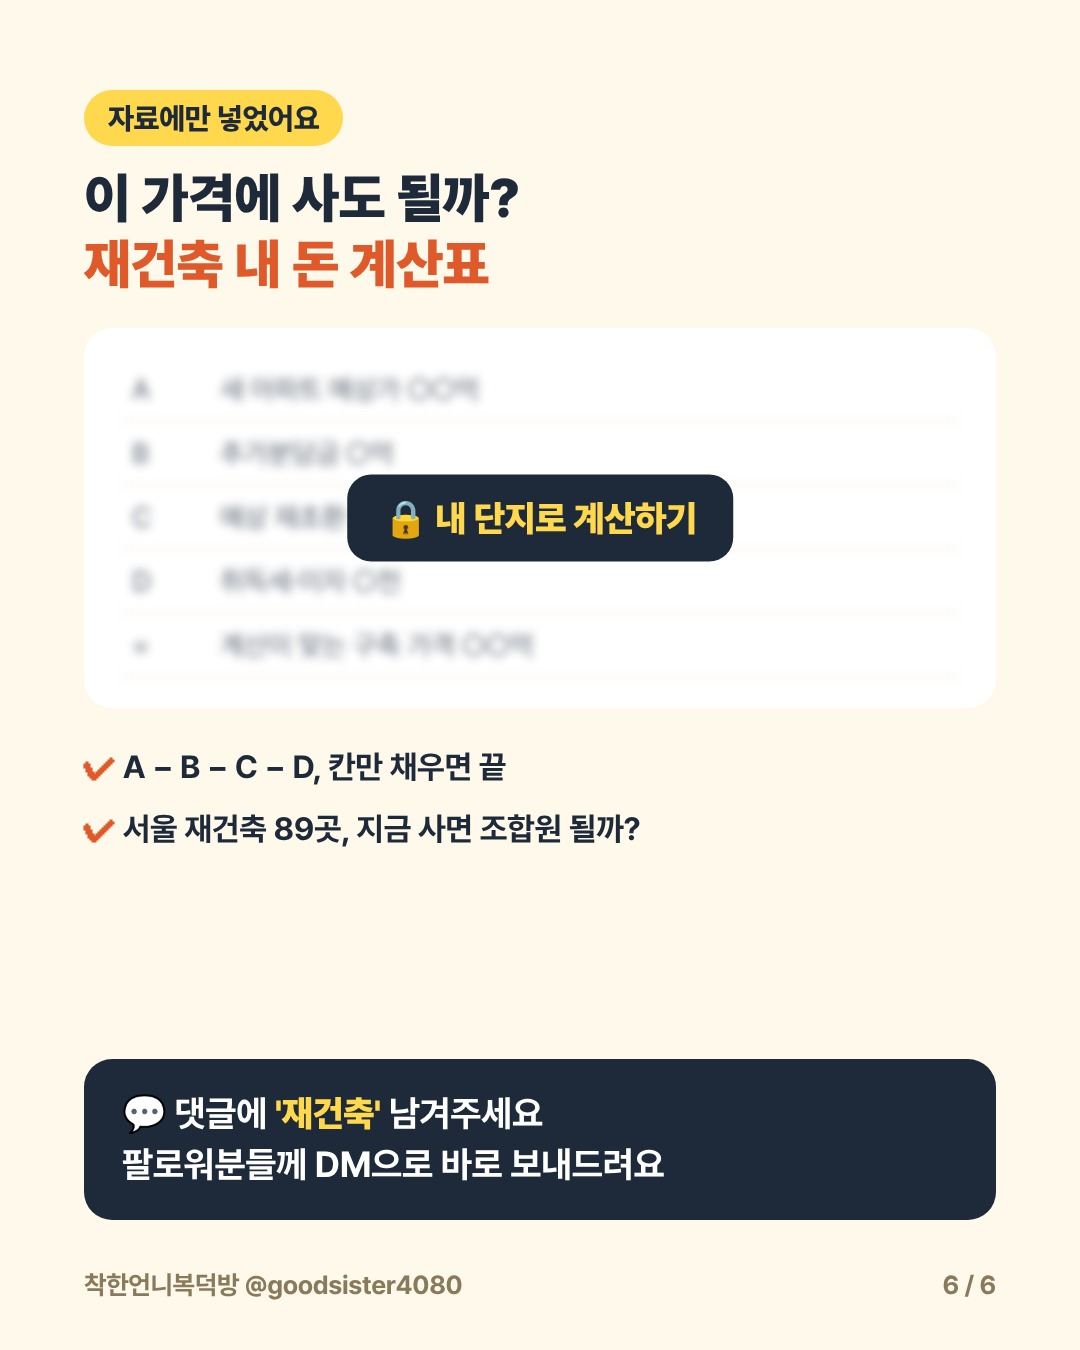
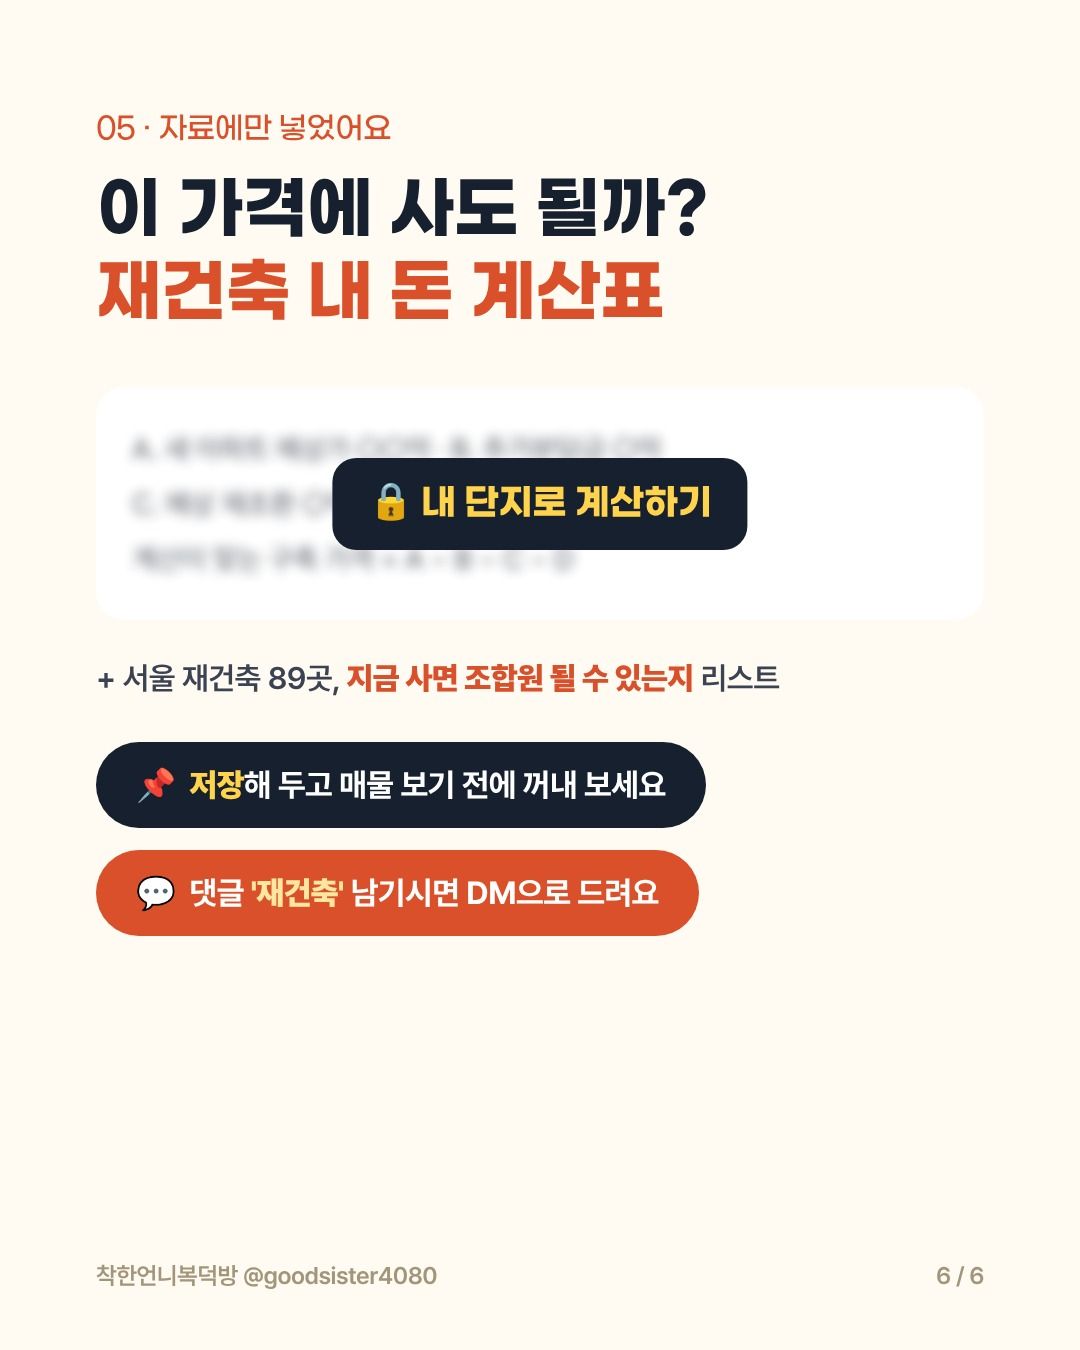
재초환 cards: balance-day style cover with chart-style inner slides and share prompt
Claude-Session: https://claude.ai/code/session_01TVq9M4GpnT2XRseWGn9WC1

diff --git a/index.html b/index.html
@@ -105,7 +105,7 @@ footer{margin-top:48px;color:var(--tx3);font-size:12px}
   <div class="cards">
     <div class="card"><h3>🏗 카드뉴스 · 재초환 · <code>재건축</code> · 승인 대기</h3>
       <p><b>집을 안 팔아도 나오는 돈, 재초환 (6장)</b></p>
-      <p><img src="instagram/cards/2026-11-15-jaechohwan/card-1115-1.png?v=2" style="width:100%;border-radius:10px;margin-top:8px"></p>
+      <p><img src="instagram/cards/2026-11-15-jaechohwan/card-1115-1.png?v=3" style="width:100%;border-radius:10px;margin-top:8px"></p>
       <p style="margin-top:6px"><a href="instagram/cards/kit.html"><b>업로드 키트</b></a> · <a href="https://www.notion.so/416f7921674681df9d3fc085f8da0261">노션 자료</a></p></div>
     <div class="card"><h3>🎬 11/17(화) 릴스 · <code>갈아타기</code> · 대본 완료</h3>
       <p><b>같은 단지, 한 집만 안 팔리는 이유 (집 파는 하수 vs 고수)</b></p>

diff --git a/instagram/cards/kit.html b/instagram/cards/kit.html
@@ -34,6 +34,8 @@ DM으로 드려요.
 (팔로워분들께만 보내드려요)
 
 📌 저장해 두고 재건축 매물 볼 때 꺼내 보세요.
+📤 재건축 단지에 오래 사신
+부모님께도 공유해 주세요.
 
 ※ 기사로 확인된 예정액이며
 확정 금액이 아니에요.

diff --git a/instagram/cards/2026-11-15-jaechohwan/README.md b/instagram/cards/2026-11-15-jaechohwan/README.md
@@ -3,7 +3,7 @@
 **업로드**: 승인 대기 · 6장 · 댓글 키워드 `재건축`
 **보상**: 노션 「재초환 숫자로 이해하기 + 재건축 내 돈 계산표」 https://www.notion.so/416f7921674681df9d3fc085f8da0261
 **표지 사진**: 대표님 현장 사진 (번호판은 잘라냈고, 동 표기는 블러 처리)
-**디자인**: 11/4 잔금 카드 스타일 (반응 좋았던 형식)
+**디자인**: 표지는 11/4 잔금 카드 스타일, 본문은 숫자·그래프형 (5장에 부모님 공유 유도)
 
 ## 캡션
 ```
@@ -29,6 +29,8 @@ DM으로 드려요.
 (팔로워분들께만 보내드려요)
 
 📌 저장해 두고 재건축 매물 볼 때 꺼내 보세요.
+📤 재건축 단지에 오래 사신
+부모님께도 공유해 주세요.
 
 ※ 기사로 확인된 예정액이며
 확정 금액이 아니에요.
